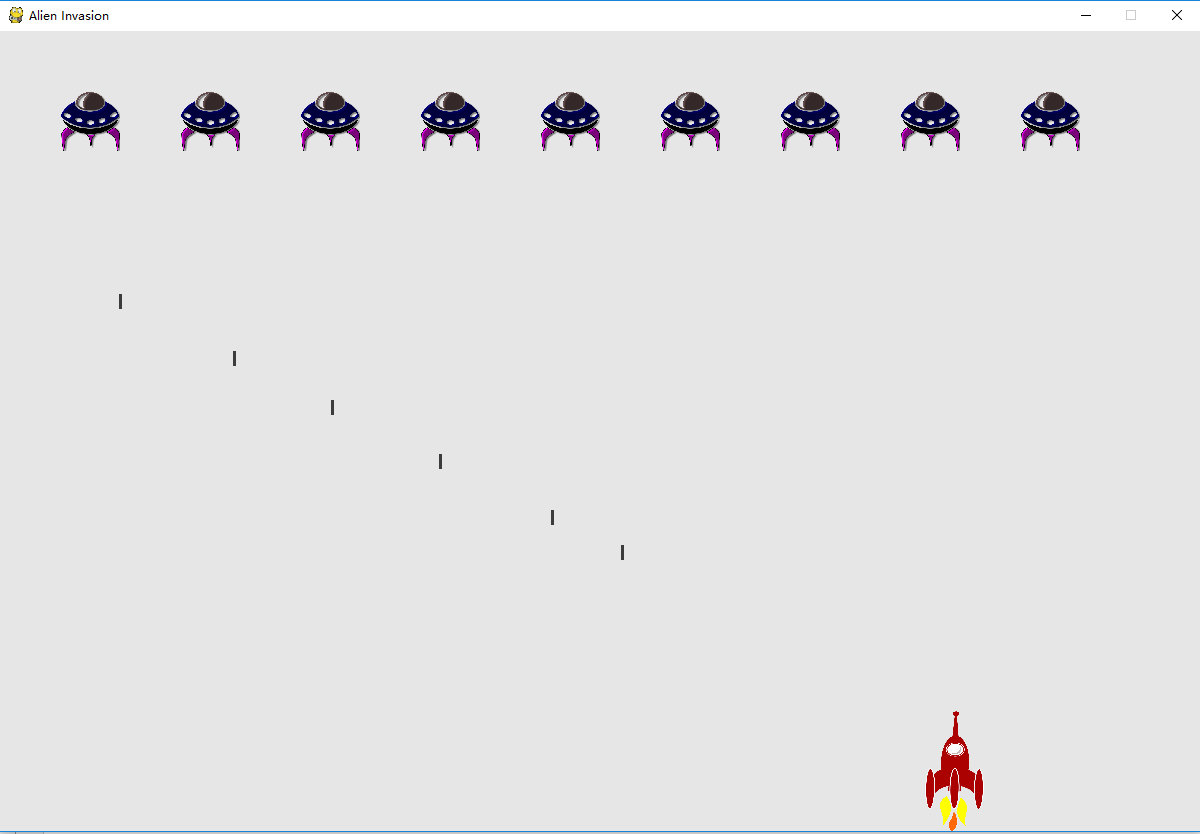
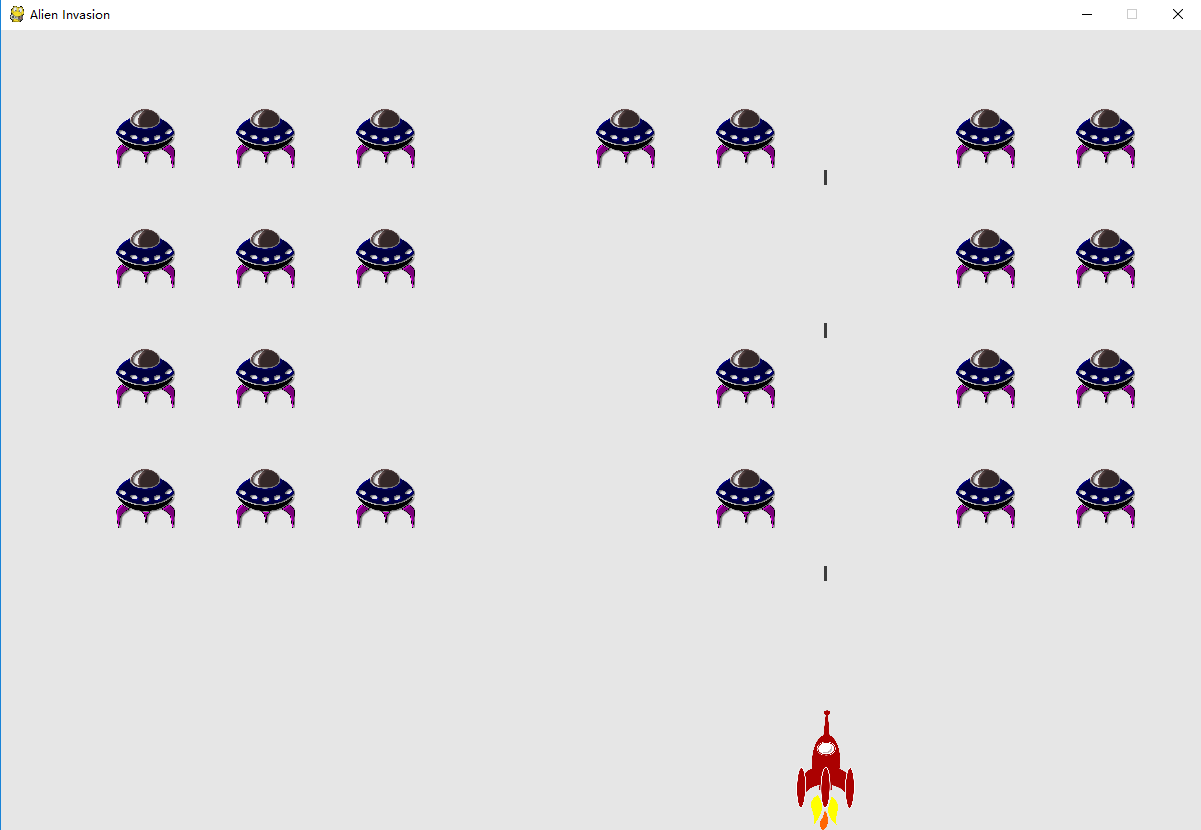
finish alien_invasion

diff --git a/game_functions.py b/game_functions.py
@@ -5,6 +5,7 @@ import pygame
 
 from bullet import Bullet
 from alien import Alien
+from time import sleep
 
 
 def check_keydown_events(event, ai_settings, screen, ship, bullets):
@@ -61,7 +62,7 @@ def update_screen(ai_settings, screen, ship, aliens, bullets):
     pygame.display.flip()
 
 
-def update_bullets(bullets):
+def update_bullets(ai_settings, screen, ship, bullets, aliens):
     """更新屏幕上的子弹"""
     # 更新子弹位置
     bullets.update()  # 调用update() ，编组将自动调用组中的每一个update()，即每颗子弹调用bullet.update()
@@ -71,6 +72,20 @@ def update_bullets(bullets):
         if bullet.rect.bottom <= 0:
             bullets.remove(bullet)
     # print(len(bullets))
+
+    check_bullet_alien_collisions(ai_settings, screen, ship, aliens, bullets)
+
+
+def check_bullet_alien_collisions(ai_settings, screen, ship, aliens, bullets):
+    """响应子弹和外星人的碰撞"""
+    # 检查是否有子弹击中了外星人
+    # 如果是这样，就删除相应的子弹和外星人
+    collisions = pygame.sprite.groupcollide(bullets, aliens, True, True)
+
+    if len(aliens) == 0:
+        # 删除现有的所有子弹，并创建一个新的外星人群
+        bullets.empty()
+        create_fleet(ai_settings, screen, ship, aliens)
 
 
 def fire_bullet(ai_settings, screen, ship, bullets):
@@ -135,10 +150,46 @@ def change_fleet_direction(ai_settings, aliens):
     ai_settings.fleet_direction *= -1
 
 
-def update_aliens(ai_settings, aliens):
+def update_aliens(ai_settings, stats, screen, aliens, ship, bullets):
     """
     检查是否有外星人位于屏幕边缘，并更新整群外星人的位置
     """
     check_fleet_edges(ai_settings, aliens)
     aliens.update()
 
+    # 检查是否有外星人到达屏幕底端
+    check_aliens_bottom(ai_settings, stats, screen, aliens, ship, bullets)
+
+    # 检测外星人和飞船之间的碰撞
+    if pygame.sprite.spritecollideany(ship, aliens):
+        ship_hit(ai_settings, stats, screen, aliens, ship, bullets)
+
+
+def ship_hit(ai_settings, stats, screen, aliens, ship, bullets):
+    """响应被外星人撞到的飞船"""
+    # 将ships_left减1
+    stats.ships_left -= 1
+
+    if stats.ships_left > 0:
+        # 清空外星人列表和子弹列表
+        aliens.empty()
+        bullets.empty()
+
+        # 重新开始
+        # 创建一群新的外星人，并将飞船放到屏幕底端中央
+        create_fleet(ai_settings, screen, ship, aliens)
+        ship.center_ship()
+        # 暂停
+        sleep(0.5)
+    else:
+        stats.game_active = False
+
+
+def check_aliens_bottom(ai_settings, stats, screen, aliens, ship, bullets):
+    """检查是否有外星人到达了屏幕底端"""
+    screen_rect = screen.get_rect()
+    for alien in aliens.sprites():
+        if alien.rect.bottom >= screen_rect.bottom:
+            # 像飞船被撞到一样进行处理
+            ship_hit(ai_settings, stats, screen, aliens, ship, bullets)
+            break

diff --git a/alien_invasion.py b/alien_invasion.py
@@ -6,6 +6,7 @@ from settings import Settings
 from ship import Ship
 import game_functions as gf
 from pygame.sprite import Group
+from game_stats import GameStats
 
 
 def run_game():
@@ -14,6 +15,9 @@ def run_game():
     ai_settings = Settings()
     screen = pygame.display.set_mode((ai_settings.screen_width, ai_settings.screen_height))
     pygame.display.set_caption("Alien Invasion")
+
+    # 创建一个用于存储游戏统计信息的实例
+    stats = GameStats(ai_settings)
 
     # 创建一艘飞船
     ship = Ship(ai_settings, screen)
@@ -29,12 +33,15 @@ def run_game():
     while True:
         # 监听事件
         gf.check_events(ai_settings, screen, ship, bullets)
-        # 移动飞船
-        ship.update()
-        # 更新子弹
-        gf.update_bullets(bullets)
-        # 移动外星人
-        gf.update_aliens(ai_settings, aliens)
+
+        if stats.game_active:
+            # 移动飞船
+            ship.update()
+            # 更新子弹
+            gf.update_bullets(ai_settings, screen, ship, bullets, aliens)
+            # 移动外星人
+            gf.update_aliens(ai_settings, stats, screen, aliens, ship, bullets)
+
         # 更新屏幕
         gf.update_screen(ai_settings, screen, ship, aliens, bullets)
 

diff --git a/settings.py b/settings.py
@@ -16,7 +16,7 @@ class Settings():
         self.ship_speed_factor = 2
 
         # 子弹设置
-        self.bullet_speed_factor = 1
+        self.bullet_speed_factor = 3
         self.bullet_width = 3
         self.bullet_height = 15
         self.bullet_color = 60, 60, 60
@@ -24,7 +24,8 @@ class Settings():
 
         # 外星人设置
         self.alien_speed_factor = 1
-        self.fleet_drop_speed = 1
+        self.ship_limit = 3
+        self.fleet_drop_speed = 3
         # fleet_direction为1表示向右移，为-1表示向左移
         self.fleet_direction = 1
 

diff --git a/game_stats.py b/game_stats.py
@@ -1,0 +1,16 @@
+#!/usr/bin/env python
+# Author:Wang Xueming
+
+
+class GameStats ():
+    """跟踪游戏的统计信息"""
+    def __init__(self, ai_settings):
+        """初始化统计信息"""
+        self.ai_settings = ai_settings
+        self.reset_stats()
+        # 游戏刚启动时处于活动状态
+        self.game_active = True
+
+    def reset_stats(self):
+        """初始化在游戏运行期间可能变化的统计信息"""
+        self.ships_left = self.ai_settings.ship_limit

diff --git a/ship.py b/ship.py
@@ -40,3 +40,7 @@ class Ship ():
     def blitme(self):
         """在指定位置绘制飞船"""
         self.screen.blit(self.image, self.rect)
+
+    def center_ship(self):
+        """让飞船在屏幕上居中"""
+        self.center = self.screen_rect.centerx

diff --git a/README.md b/README.md
@@ -1,12 +1,19 @@
 # SimplePy
 Small projects done in python
 
-### 项目来源
+### from
 本项目参考于《Python编程：从入门到实践》
-
 作者：[美] Eric Matthes
-
 译者：袁国忠
 
-### 项目演示
+### alien_invasion
+### Env
+1. python 3.6.3
+2. pygame 1.9.4
+
+##### Usage
+1. 安装pygame
+2. 运行alien_invasion.py
+
+### Demo
 ![image](https://github.com/eussi/SimplePy/blob/master/images/alien_invasion/invasion_demo.png)
